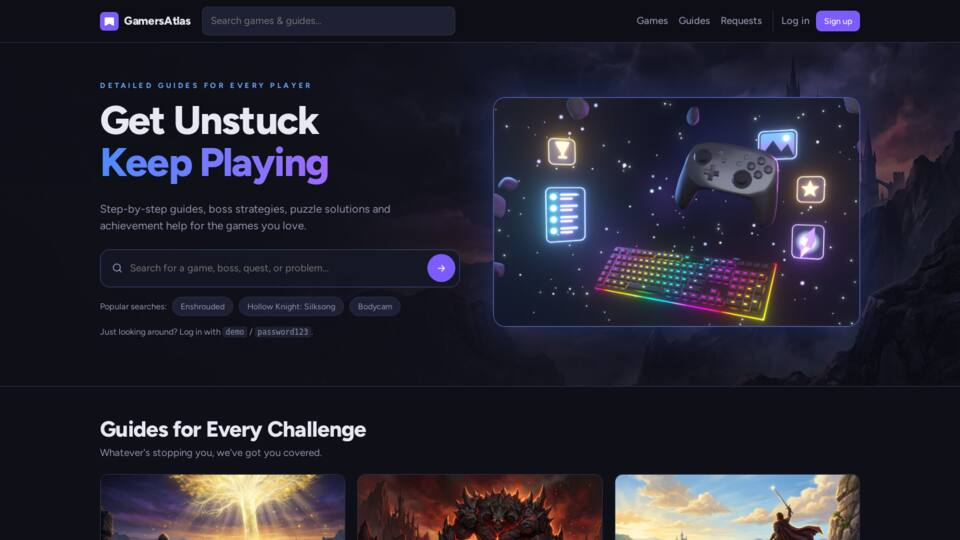
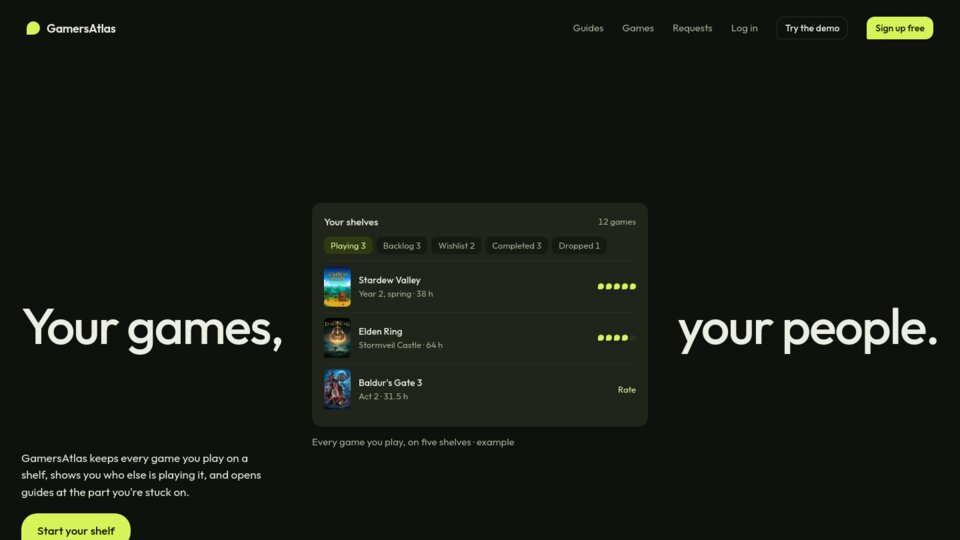
Update the GamersAtlas screenshot for its redesign
Claude-Session: https://claude.ai/code/session_01EtozmKk1zYbErimjfLj2tp

diff --git a/index.html b/index.html
@@ -90,7 +90,7 @@
         <section class="station" id="i1" data-stop="i1" style="--line: var(--gold)" aria-labelledby="i1-h">
           <div class="sign rise"><span class="bullet b-i">I1</span><h2 id="i1-h">GamersAtlas</h2><a class="visit" href="https://gamersatlas.com" target="_blank" rel="noopener">Visit site ↗</a></div>
           <p class="meta rise" style="--i: 1"><b>Live</b><span>2026</span><span>Personal project</span><span>Sole developer, design through deploy</span></p>
-          <a class="shot rise" style="--i: 2" href="https://gamersatlas.com" target="_blank" rel="noopener"><img src="assets/img/gamersatlas.jpg" width="960" height="540" loading="lazy" decoding="async" alt="GamersAtlas home page: 'Get Unstuck, Keep Playing' with a game search box" /></a>
+          <a class="shot rise" style="--i: 2" href="https://gamersatlas.com" target="_blank" rel="noopener"><img src="assets/img/gamersatlas.jpg" width="960" height="540" loading="lazy" decoding="async" alt="GamersAtlas home page: 'Your games, your people.' around a shelf of games being played" /></a>
           <div class="body rise" style="--i: 3">
             <div>
               <p>Goodreads for video games. Players shelve what they're playing, write guides in Markdown with a live preview and spoiler gates, and search across guides to jump straight to the section that gets them unstuck.</p>
